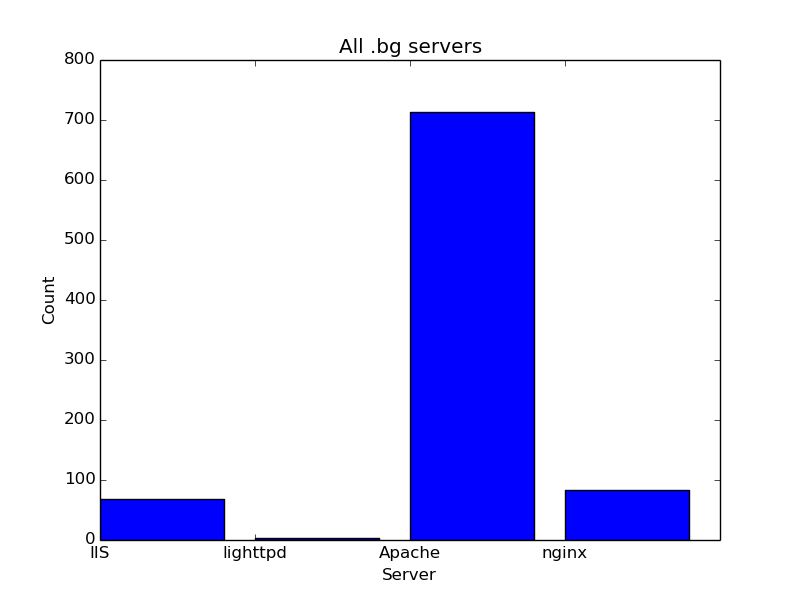
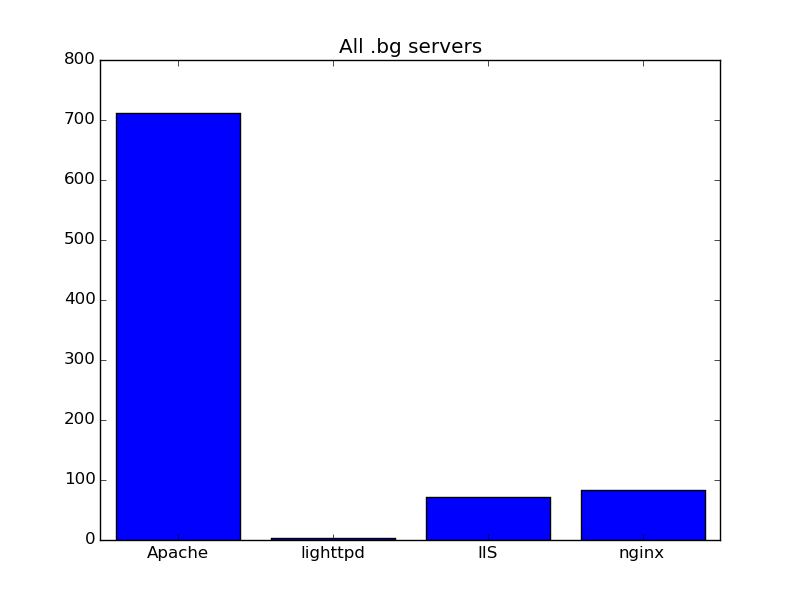
update

diff --git a/Week6/1-Scan-Bg-Web/histogram.py b/Week6/1-Scan-Bg-Web/histogram.py
@@ -37,11 +37,9 @@ class Histogram:
                     self.add("lighttpd")
         keys = list(self.dict.keys())
         a = list(range(len(keys)))
-        plt.bar(a, list(self.dict.values()))
+        plt.bar(a, list(self.dict.values()), align = 'center')
         plt.xticks(a, keys)
         plt.title("All .bg servers")
-        plt.xlabel("Server")
-        plt.ylabel("Count")
         plt.savefig("histogram.png")
 
 
